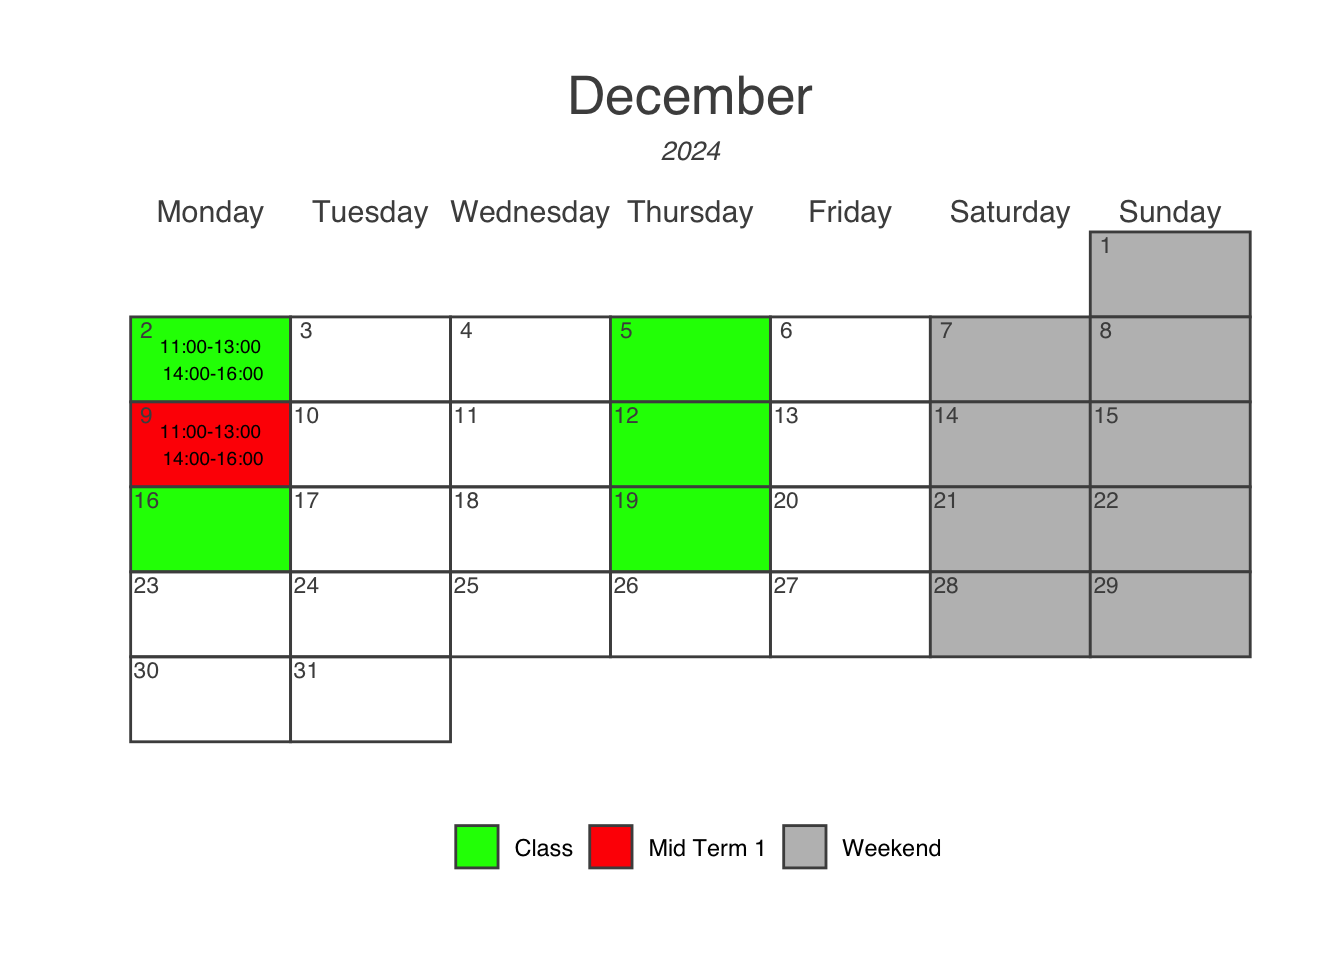
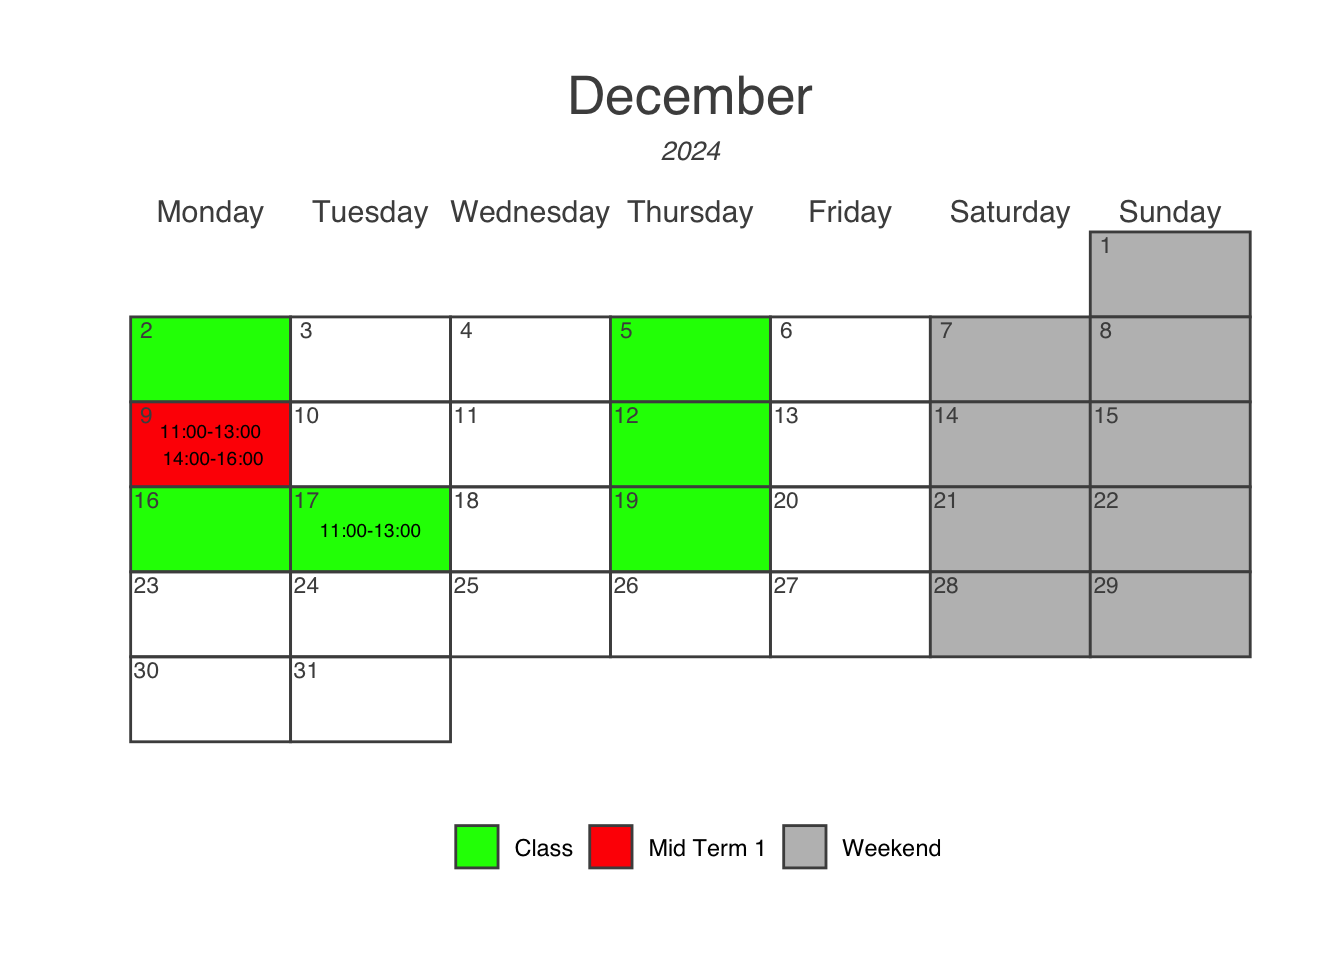
Change date for retake class

Changed region(s): [[0.2188, 0.5, 0.3438, 0.5938], [0.125, 0.3438, 0.1875, 0.4062]]

diff --git a/docs/calendar.html b/docs/calendar.html
@@ -268,7 +268,7 @@ window.Quarto = {
     <div>
     <div class="quarto-title-meta-heading">Modified</div>
     <div class="quarto-title-meta-contents">
-      <p class="date-modified">November 25, 2024</p>
+      <p class="date-modified">November 28, 2024</p>
     </div>
   </div>
     
